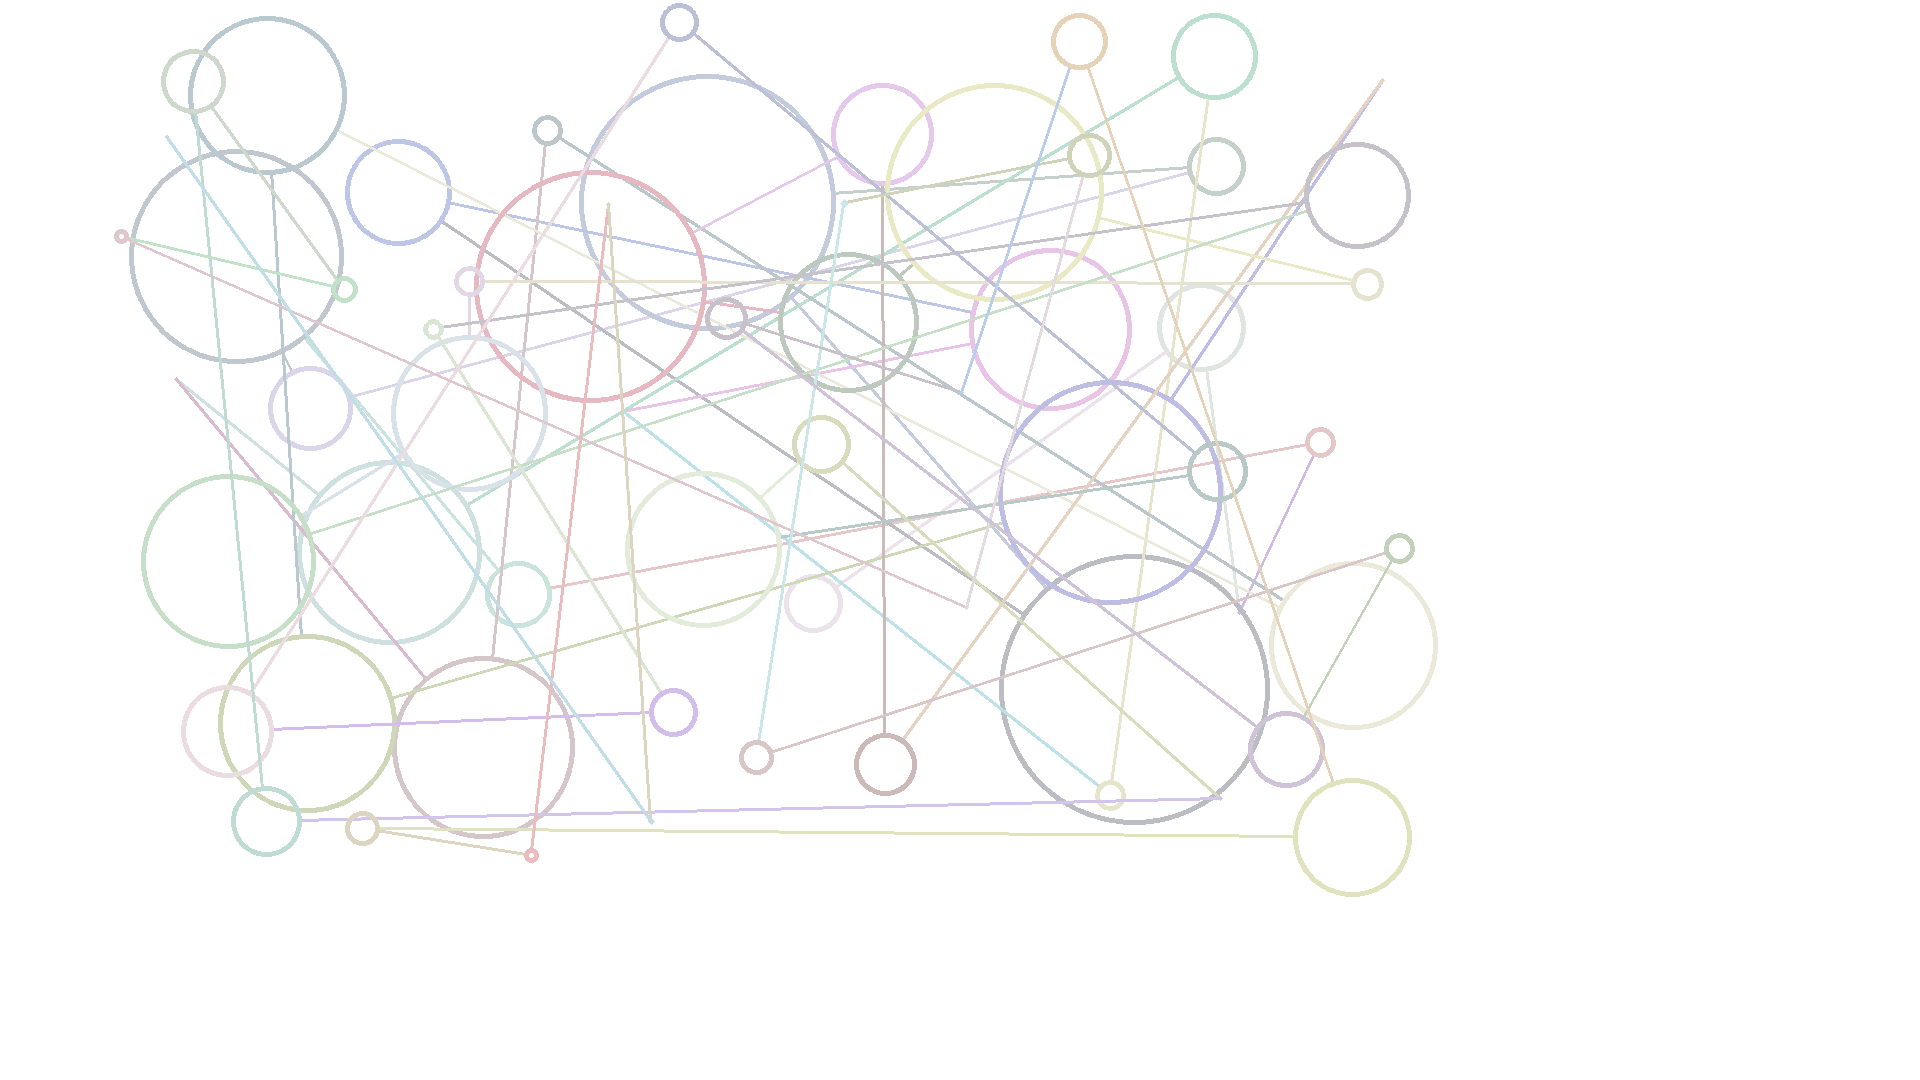
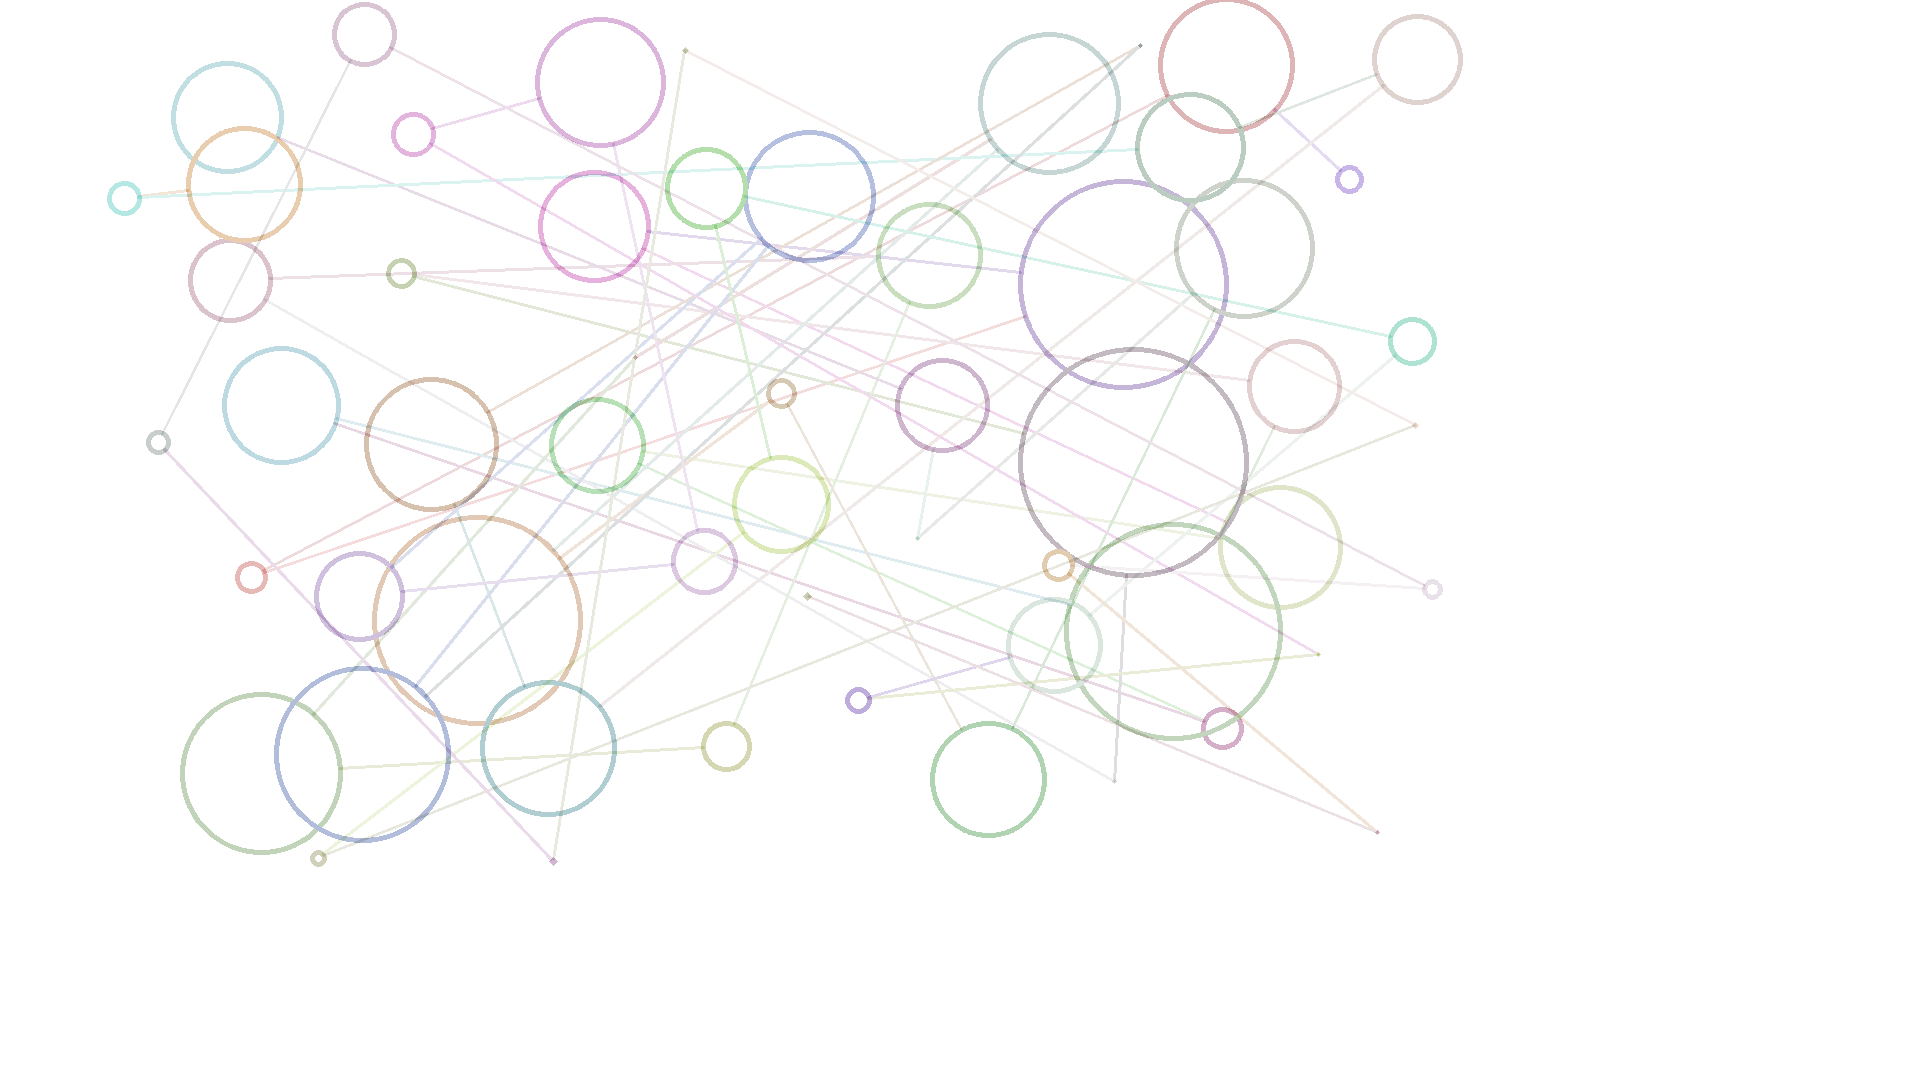
feat: fixed last circle drawing .. separated alphas of circles and line

diff --git a/scanpath.py b/scanpath.py
@@ -64,8 +64,8 @@ for key in points_group:
 
 # now draw the circles
 image = cv2.imread(image_path)
-overlay = image.copy()
-original = image.copy()
+overlay_circles = image.copy()
+overlay_lines = image.copy()
 points_group_keys = list(points_group)
 
 for key in range(0, len(points_group) - 1):
@@ -85,14 +85,17 @@ for key in range(0, len(points_group) - 1):
         point1_y = y1 + radius1 * sin(angle)
         point2_x = x2 - radius2 * cos(angle)
         point2_y = y2 - radius2 * sin(angle)
-        cv2.line(overlay, (int(point1_x), int(point1_y)), (int(point2_x), int(point2_y)), colors[list(points_group)[key]], 2)
+        cv2.line(overlay_lines, (int(point1_x), int(point1_y)), (int(point2_x), int(point2_y)), colors[list(points_group)[key]], 2)
     
-    cv2.circle(overlay, (x1, y1), radius1, colors[points_group_keys[key]], 4)
+    cv2.circle(overlay_circles, (x1, y1), radius1, colors[points_group_keys[key]], 4)
+    if key == len(points_group) - 2:
+        cv2.circle(overlay_circles, (x2, y2), radius2, colors[points_group_keys[key + 1]], 4)
 
-   
 
+alpha_circles = 0.5
+alpha_lines = 0.2
 
-alpha = 0.35
-result = cv2.addWeighted(overlay, alpha, image, 1 - alpha, 0)
+result = cv2.addWeighted(overlay_circles, alpha_circles, image, 1 - alpha_circles, 0)
+result = cv2.addWeighted(overlay_lines, alpha_lines, result, 1 - alpha_lines, 0)
 
 cv2.imwrite("./images/scanpath_test.png", result)
